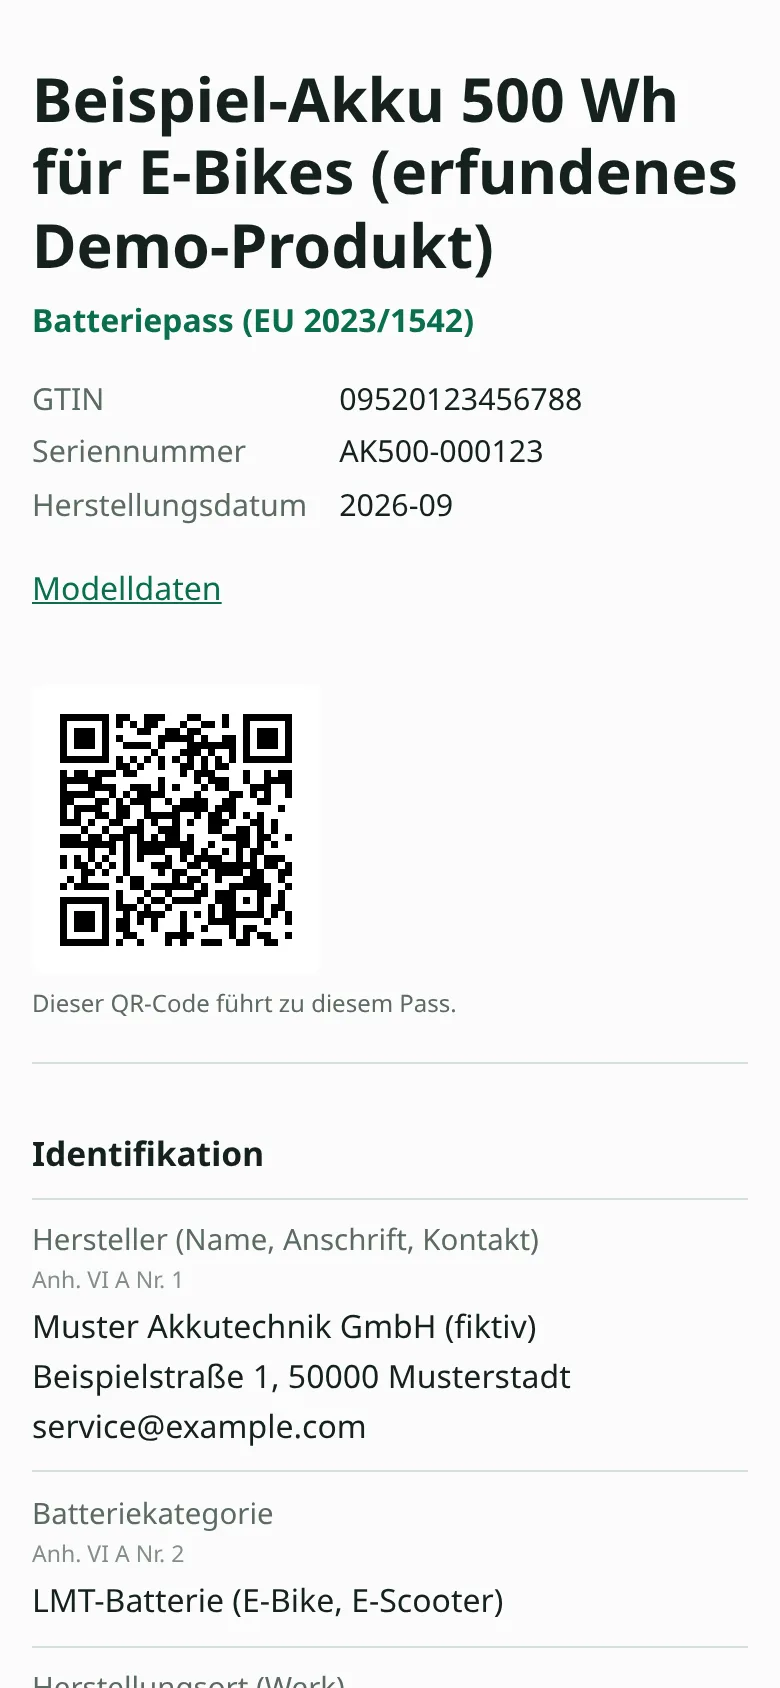
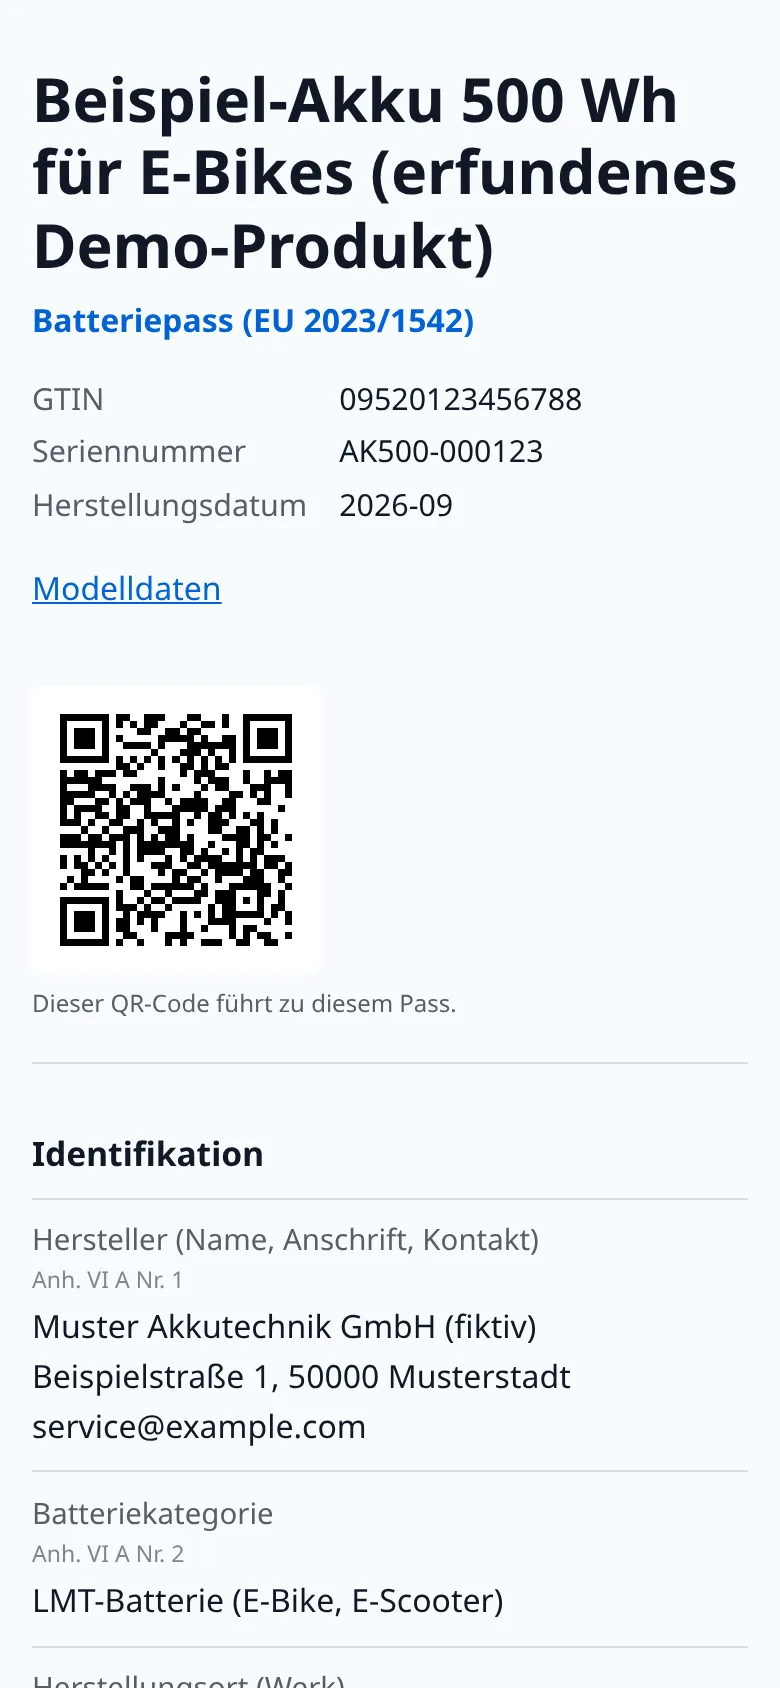
Passseiten in Cobalt statt Grün, neue Screenshots, Prüfliste ohne null, Fokusrahmen für die Vorschau

Changed region(s): [[0.0308, 0.1848, 0.6154, 0.2156], [0.0308, 0.3389, 0.2769, 0.3697]]

diff --git a/site/editor/editor.css b/site/editor/editor.css
@@ -87,6 +87,7 @@ code { font-family: var(--font-outlier); font-size: 0.92em; }
 .preview__bar { display: flex; align-items: center; gap: var(--space-sm); padding: var(--space-xs) var(--space-md); border-bottom: var(--rule-hair) solid var(--color-rule); font-size: var(--text-sm); }
 .preview__bar select { width: auto; min-height: 32px; }
 #frame { display: block; width: 100%; height: min(62dvh, 640px); border: 0; background: var(--color-paper); }
+#frame:focus-visible { outline: 2px solid var(--color-focus); outline-offset: -2px; }
 .exports, .files { display: flex; flex-wrap: wrap; gap: var(--space-sm); align-items: center; }
 
 @media (prefers-reduced-motion: reduce) { .key { transition: none; } }
